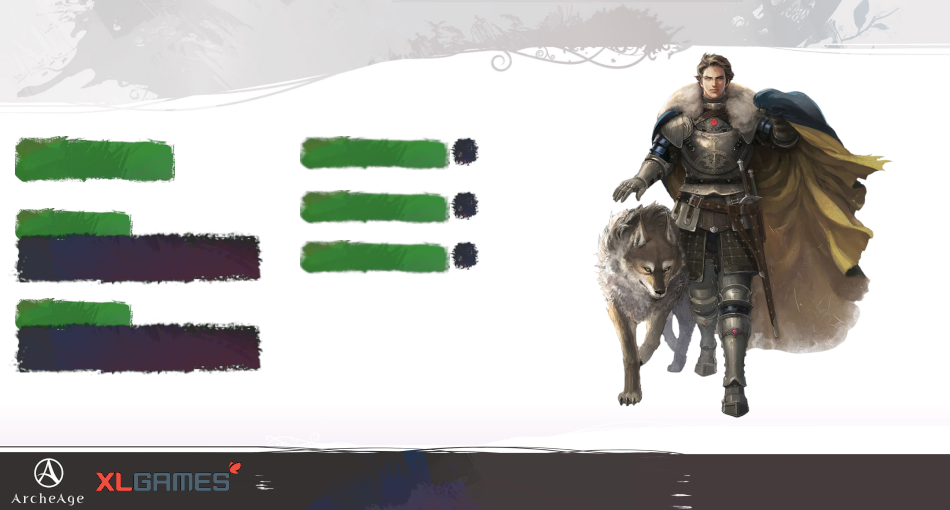
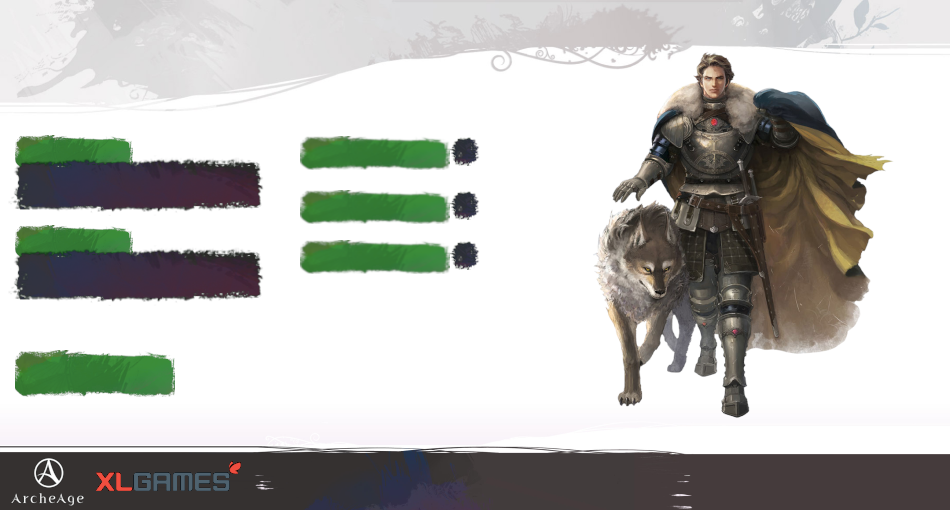
Settings layout
Moved save button to the bottom

Changed region(s): [[0.0, 0.2647, 0.2747, 0.7941]]

diff --git a/AAEmu.Launcher/MainForm.Designer.cs b/AAEmu.Launcher/MainForm.Designer.cs
@@ -130,7 +130,7 @@
             this.eServerIP.BorderStyle = System.Windows.Forms.BorderStyle.None;
             this.eServerIP.Font = new System.Drawing.Font("Georgia", 15.75F, System.Drawing.FontStyle.Regular, System.Drawing.GraphicsUnit.Point, ((byte)(0)));
             this.eServerIP.ForeColor = System.Drawing.Color.White;
-            this.eServerIP.Location = new System.Drawing.Point(26, 246);
+            this.eServerIP.Location = new System.Drawing.Point(25, 172);
             this.eServerIP.Margin = new System.Windows.Forms.Padding(0);
             this.eServerIP.Name = "eServerIP";
             this.eServerIP.Size = new System.Drawing.Size(222, 24);
@@ -143,9 +143,9 @@
             this.lPathToGameLabel.BackColor = System.Drawing.Color.Transparent;
             this.lPathToGameLabel.Font = new System.Drawing.Font("Georgia", 9F, System.Drawing.FontStyle.Regular, System.Drawing.GraphicsUnit.Point, ((byte)(0)));
             this.lPathToGameLabel.ForeColor = System.Drawing.Color.White;
-            this.lPathToGameLabel.Location = new System.Drawing.Point(22, 304);
+            this.lPathToGameLabel.Location = new System.Drawing.Point(22, 230);
             this.lPathToGameLabel.Name = "lPathToGameLabel";
-            this.lPathToGameLabel.Size = new System.Drawing.Size(226, 20);
+            this.lPathToGameLabel.Size = new System.Drawing.Size(155, 20);
             this.lPathToGameLabel.TabIndex = 2;
             this.lPathToGameLabel.Text = "gamepath";
             this.lPathToGameLabel.TextAlign = System.Drawing.ContentAlignment.MiddleLeft;
@@ -233,7 +233,7 @@
             this.lSettingsBack.FlatStyle = System.Windows.Forms.FlatStyle.Flat;
             this.lSettingsBack.Font = new System.Drawing.Font("Georgia", 15.75F, System.Drawing.FontStyle.Regular, System.Drawing.GraphicsUnit.Point, ((byte)(0)));
             this.lSettingsBack.ForeColor = System.Drawing.Color.White;
-            this.lSettingsBack.Location = new System.Drawing.Point(12, 142);
+            this.lSettingsBack.Location = new System.Drawing.Point(12, 356);
             this.lSettingsBack.Name = "lSettingsBack";
             this.lSettingsBack.Size = new System.Drawing.Size(165, 36);
             this.lSettingsBack.TabIndex = 29;
@@ -246,9 +246,9 @@
             this.lIPAddress.BackColor = System.Drawing.Color.Transparent;
             this.lIPAddress.Font = new System.Drawing.Font("Georgia", 9F, System.Drawing.FontStyle.Regular, System.Drawing.GraphicsUnit.Point, ((byte)(0)));
             this.lIPAddress.ForeColor = System.Drawing.Color.White;
-            this.lIPAddress.Location = new System.Drawing.Point(23, 212);
+            this.lIPAddress.Location = new System.Drawing.Point(22, 138);
             this.lIPAddress.Name = "lIPAddress";
-            this.lIPAddress.Size = new System.Drawing.Size(225, 24);
+            this.lIPAddress.Size = new System.Drawing.Size(155, 24);
             this.lIPAddress.TabIndex = 0;
             this.lIPAddress.Text = "Server";
             this.lIPAddress.TextAlign = System.Drawing.ContentAlignment.MiddleLeft;
@@ -260,7 +260,7 @@
             this.lGamePath.Cursor = System.Windows.Forms.Cursors.Hand;
             this.lGamePath.Font = new System.Drawing.Font("Georgia", 9F, System.Drawing.FontStyle.Regular, System.Drawing.GraphicsUnit.Point, ((byte)(0)));
             this.lGamePath.ForeColor = System.Drawing.Color.White;
-            this.lGamePath.Location = new System.Drawing.Point(25, 340);
+            this.lGamePath.Location = new System.Drawing.Point(24, 265);
             this.lGamePath.Name = "lGamePath";
             this.lGamePath.Size = new System.Drawing.Size(223, 20);
             this.lGamePath.TabIndex = 30;
